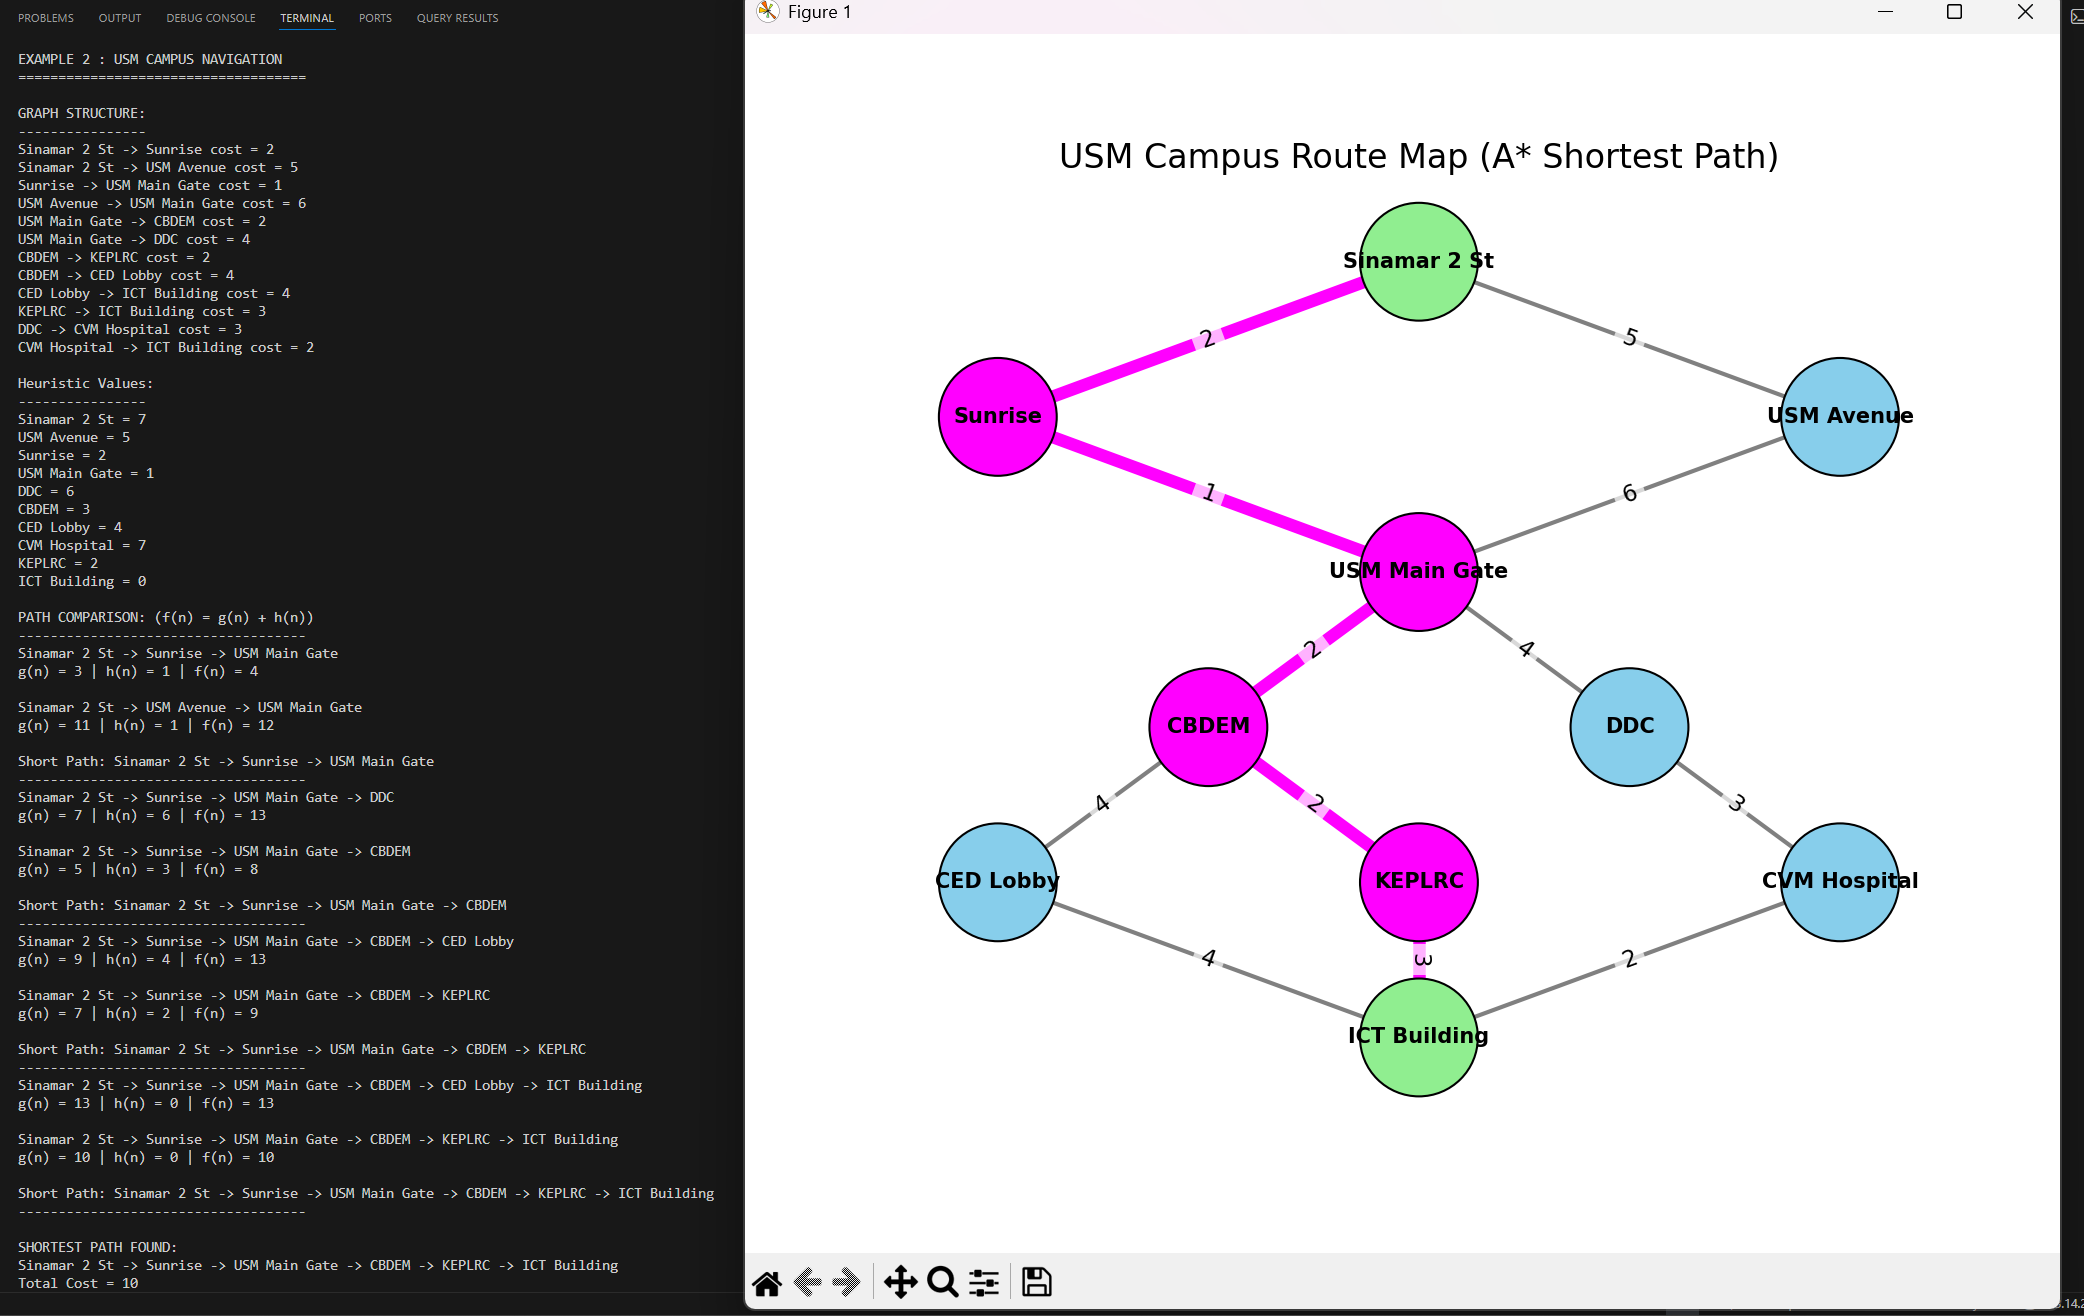
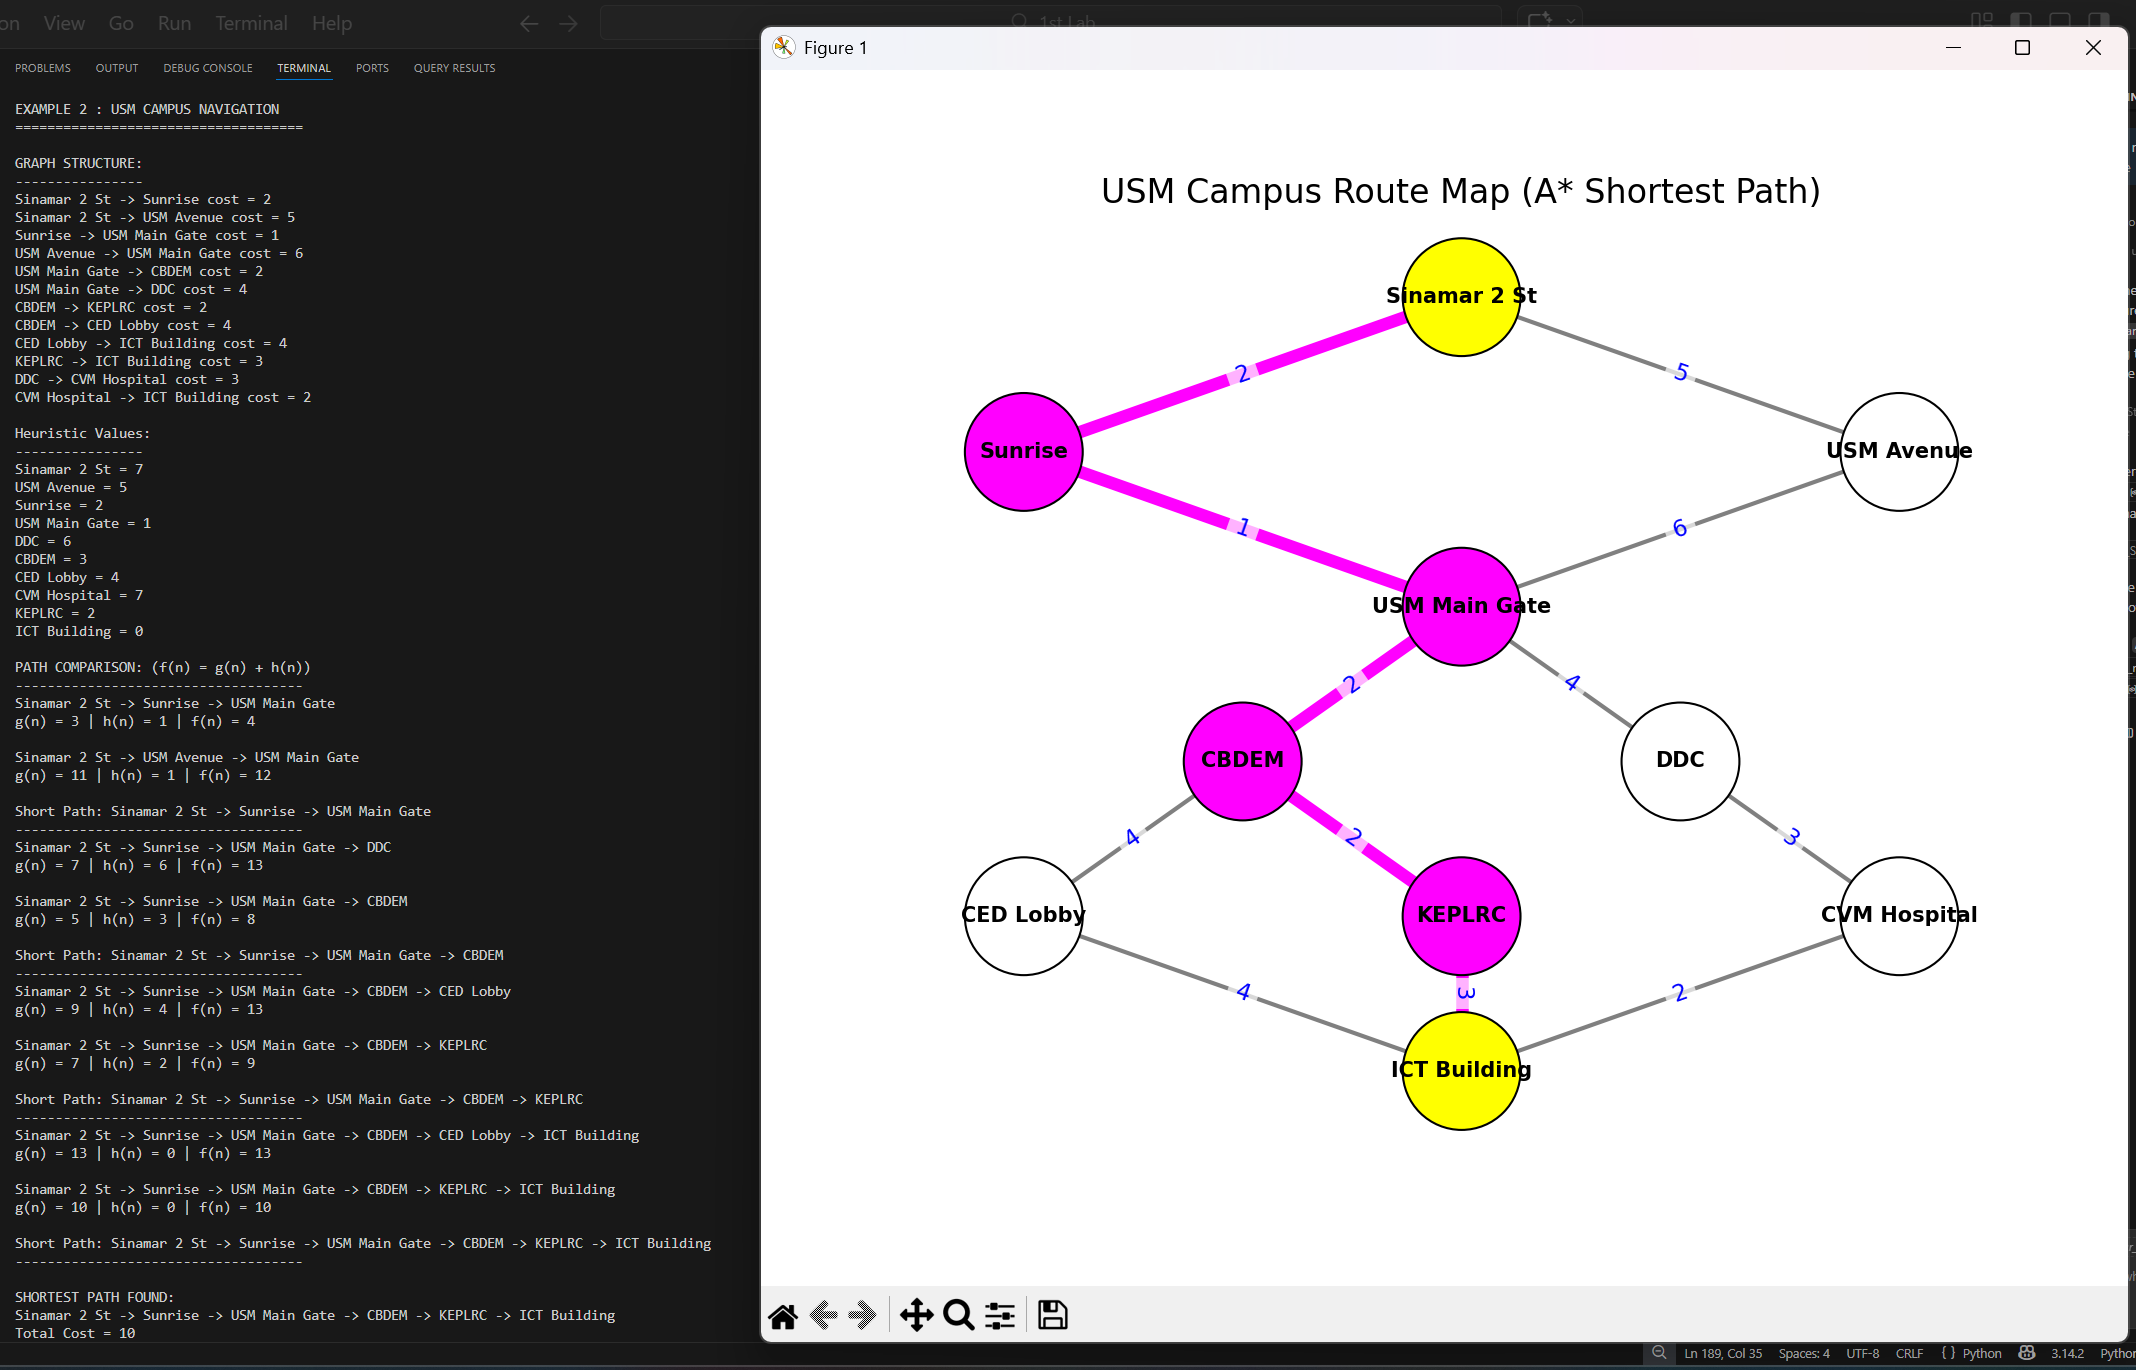
2nd commit

diff --git a/A-Priori/a-priori_ex2.py b/A-Priori/a-priori_ex2.py
@@ -25,6 +25,7 @@ min_confidence = 0.66          # 66%
 
 num_transactions = len(transactions)
 
+print("="*70)
 print("A-PRIORI ALGORITHM — MARKET BASKET ANALYSIS")
 print("="*70)
 print(f"Transactions: {num_transactions}")
@@ -186,9 +187,9 @@ for r in rules:
 print("\n\nCONCLUSION:")
 print("-"*100)
 
-print("Using the A-Priori algorithm, patterns among items bought in transactions were identified.")
-print("Frequent itemsets show which products commonly appear together in purchases.")
-print("Association rules with confidence greater than or equal to 66% are considered strong rules.")
-print("These rules indicate that when certain products are purchased, other products are likely to be purchased as well.")
+print("A-Priori algorithm kept only patterns that passed min support (27%) and min confidence (66%).")
+print("For example, {Bread, Butter, Milk} appears in 2/7 transactions (28.6%), so it is frequent.")
+print("Rules from it are strong when confidence is >= 66%, e.g., {Bread, Milk} -> {Butter} has 100% confidence.")
+print("Meaning in this dataset: if a customer buys Bread and Milk, they also bought Butter.")
 
 print("-"*100)

diff --git a/A-Priori/a-priori_ex1.py b/A-Priori/a-priori_ex1.py
@@ -22,6 +22,7 @@ min_support_percent = 0.30      # 30%
 min_confidence = 0.70           # 70%
 num_transactions = len(transactions)
 
+print("="*70)
 print("A-PRIORI ALGORITHM — IMAGE TAG MINING")
 print("="*70)
 print(f"Transactions: {num_transactions}")
@@ -186,8 +187,8 @@ for r in rules:
 
 print("\n\nCONCLUSION:")
 print("-"*100)
-print("The A-Priori algorithm discovered patterns among image tags.")
-print("The rules with confidence greater than or equal to 70% are considered strong rules.")
-print("These rules indicate that when certain tags appear in an image, other tags are very likely to appear with them.")
-print("For example, tags such as Ocean, Beach, and Sunshine often occur together in the dataset.")
+print("A-Priori algorithm kept patterns that passed min support (30%) and min confidence (70%).")
+print("{Beach, Ocean, Sunshine} was selected because it appears in 2/5 images (40% support), above 30%.")
+print("Rules like {Ocean} -> {Beach, Sunshine} are strong because confidence is 100%, which is above 70%.")
+print("Meaning in this dataset: if an image has Ocean, it also has Beach and Sunshine.")
 print("-"*100)

diff --git a/A Star/a_Star_2.py b/A Star/a_Star_2.py
@@ -186,11 +186,11 @@ short_nodes = {"Sunrise", "USM Main Gate", "CBDEM", "KEPLRC"}
 node_colors=[]
 for node in G.nodes():
     if node in ["Sinamar 2 St","ICT Building"]:
-        node_colors.append("lightgreen")  # start and goal
+        node_colors.append("yellow")  # start and goal
     elif node in short_nodes:
         node_colors.append("magenta")  # nodes on shortest path
     else:
-        node_colors.append("skyblue")
+        node_colors.append("white")
 
 # Draw nodes (bigger circles)
 nx.draw_networkx_nodes(
@@ -215,7 +215,7 @@ nx.draw_networkx_edge_labels(
     G,
     pos,
     edge_labels=edge_labels,
-    font_color="black",
+    font_color="blue",
     font_size=11,
     bbox=dict(facecolor="white", edgecolor="none", alpha=0.7)
 )

diff --git a/Differential Evolution Algorithm/diff-evol_ex1.py b/Differential Evolution Algorithm/diff-evol_ex1.py
@@ -156,5 +156,7 @@ print("====================================")
 print("Math =", current[0])
 print("Science =", current[1])
 print("Programming =", current[2])
-
 print("Final Fitness =", fitness(current))
+print("This schedule has the lowest possible fitness (0),")
+print("meaning it exactly matches the preferred times with no deviation.")
+print("------------------------------------")

diff --git a/Differential Evolution Algorithm/diff-evol_ex2.py b/Differential Evolution Algorithm/diff-evol_ex2.py
@@ -127,3 +127,4 @@ print("Product C =", 15)
 
 print("\nTotal Profit = 590")
 print(f"The algorithm selects {best} because it produces the highest profit.")
+print("------------------------------------")
